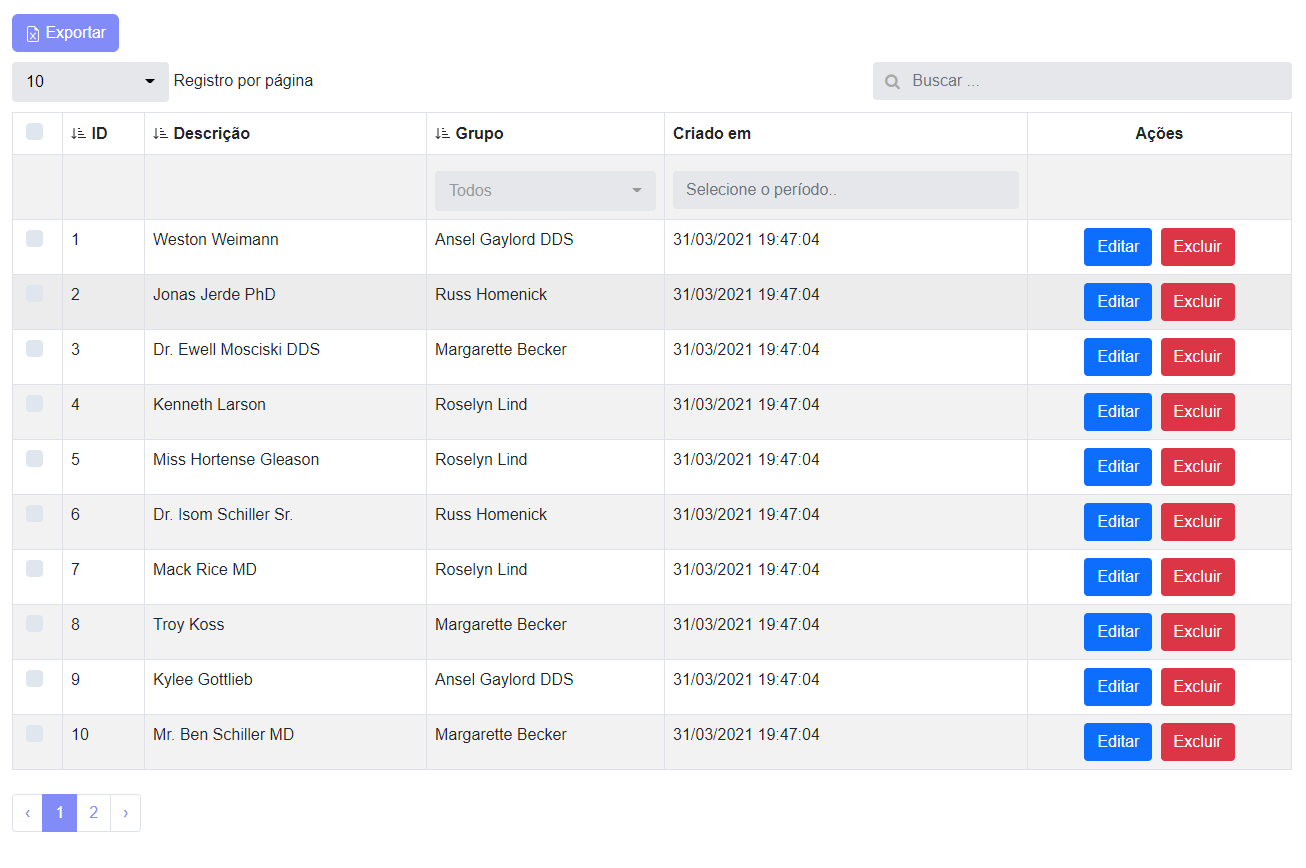
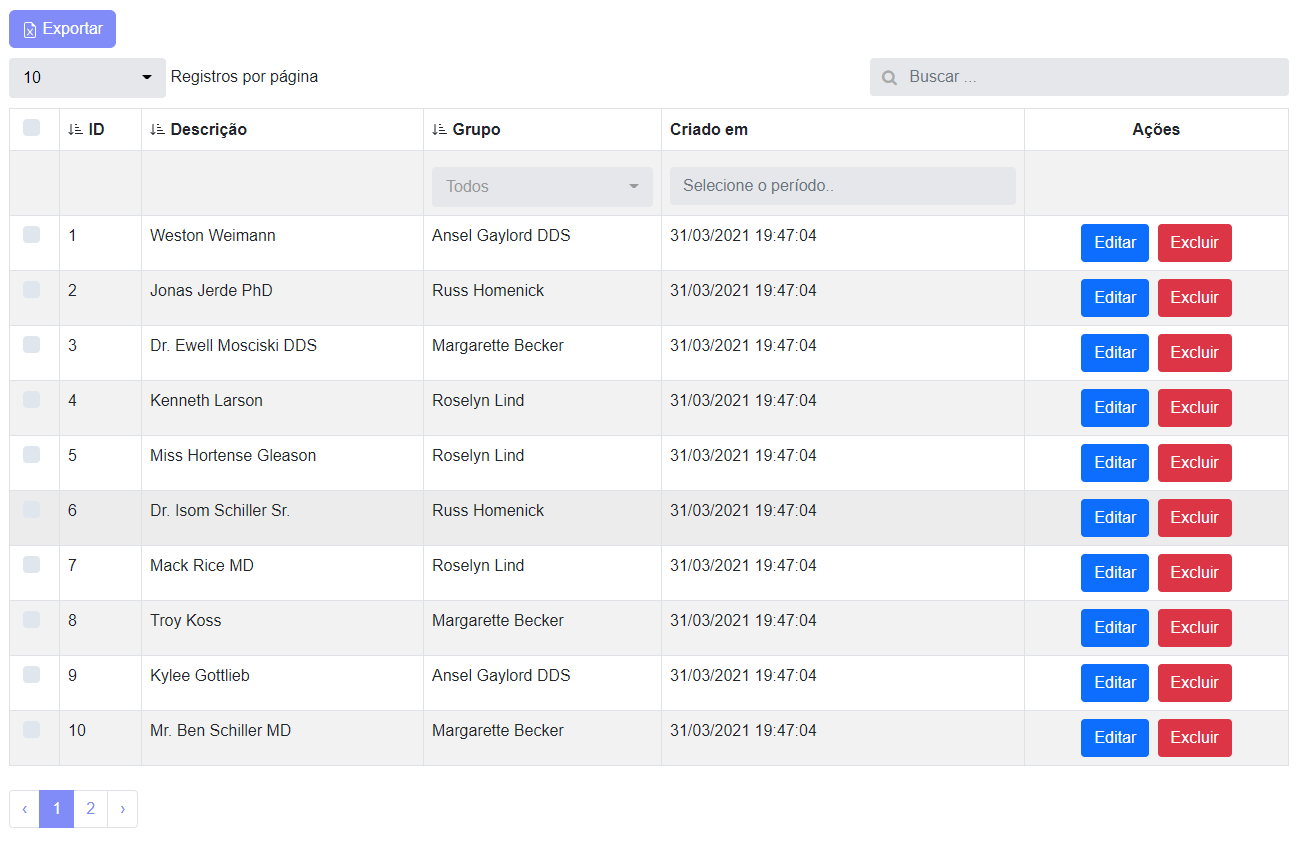
update lang prbr and readme

diff --git a/README.md b/README.md
@@ -8,7 +8,7 @@ Bootstrap version
 ![Laravel Livewire Tables](examples/bootstrap.png)
 
 Tailwind version
-![Laravel Livewire Tables](examples/example.png)
+![Laravel Livewire Tables](examples/tailwind.png)
 
 Exported example with selected data
 
